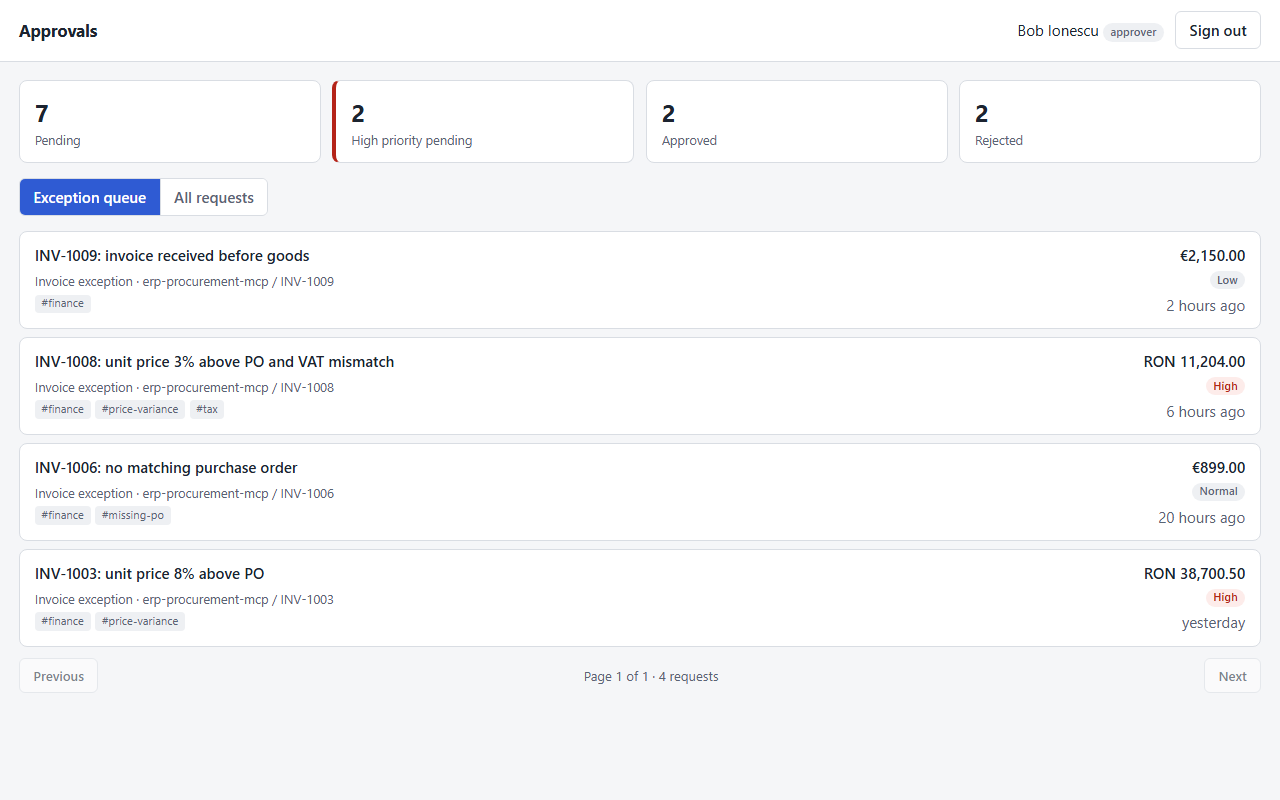
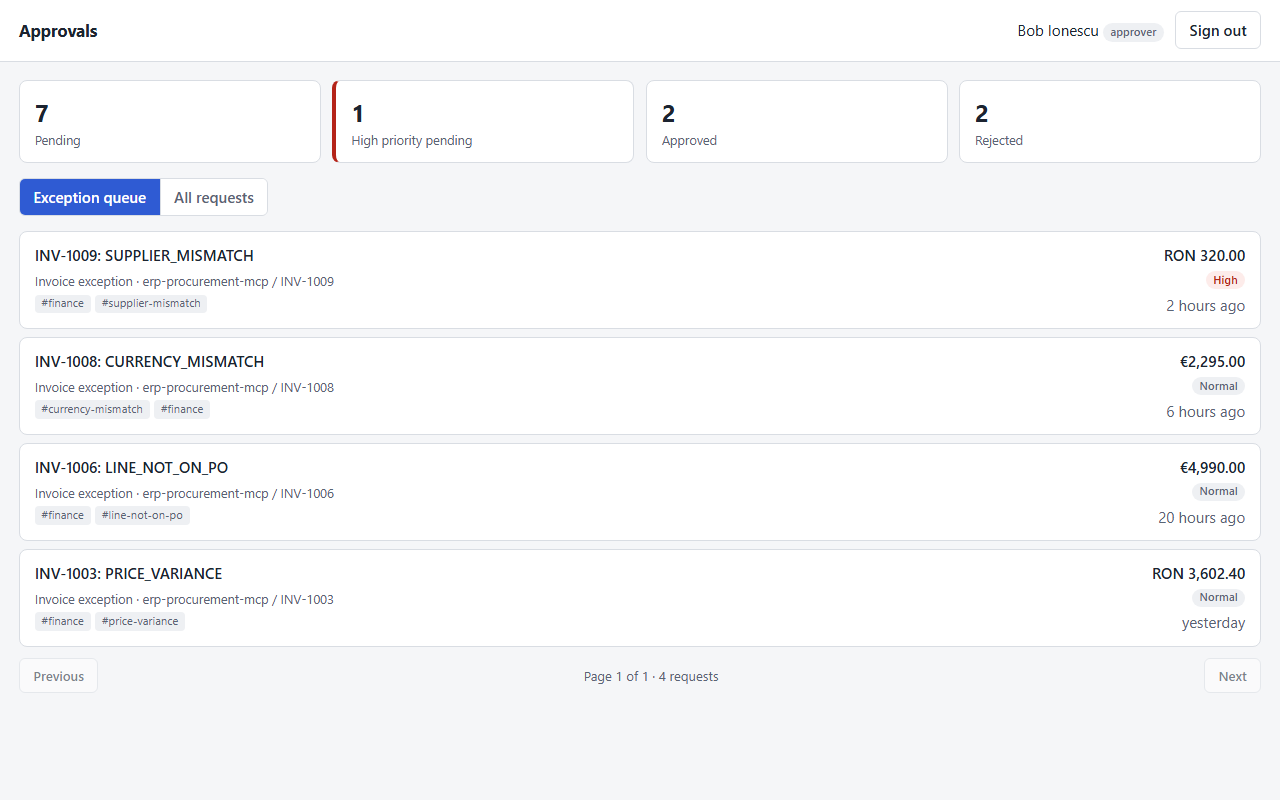
chore: align demo data with the ERP Procurement MCP server
Seeded invoice exceptions now use the MCP server's real invoices, suppliers,
totals, exception codes and priority rule, so a request it files looks the
same as the demo data. Tests and screenshots updated.

diff --git a/apps/api/src/db/seed.ts b/apps/api/src/db/seed.ts
@@ -41,39 +41,41 @@ const invoice = (ref: string, title: string, supplier: string, exceptionCodes: s
   metadata: { exceptionCodes, supplier },
 });
 
+// The invoice exceptions match the ERP Procurement MCP server's sample data (same invoices, suppliers, totals
+// and exception codes), so a request it files looks exactly like these.
 const SEED_REQUESTS: SeedRequest[] = [
   {
     by: 'agent',
     hoursAgo: 120,
-    body: { ...invoice('INV-1002', 'quantity billed exceeds goods received', 'Dacia Parts SRL', ['QTY_OVER_RECEIPT'], 1_245_000, 'RON'), tags: ['finance', 'quantity-variance'] },
-    outcome: { by: 'bob', decision: 'approved', comment: 'Remaining 20 units arrived this morning, receipt updated.' },
+    body: { ...invoice('INV-1002', 'DUPLICATE_INVOICE, QUANTITY_EXCEEDS_PO', 'Carpathian Office Supplies SRL', ['DUPLICATE_INVOICE', 'QUANTITY_EXCEEDS_PO'], 966_000, 'RON'), priority: 'high', tags: ['finance', 'duplicate-invoice', 'quantity-exceeds-po'] },
+    outcome: { by: 'carol', decision: 'rejected', comment: 'Same supplier invoice number as INV-1001, which is already paid.' },
   },
   {
     by: 'agent',
     hoursAgo: 30,
-    body: { ...invoice('INV-1003', 'unit price 8% above PO', 'Carpathian Steel SA', ['PRICE_ABOVE_PO'], 3_870_050, 'RON'), priority: 'high', tags: ['finance', 'price-variance'] },
-    comments: [{ by: 'bob', body: 'Asked purchasing whether the steel surcharge was agreed.' }],
+    body: { ...invoice('INV-1003', 'PRICE_VARIANCE', 'Somes Industrial Components SRL', ['PRICE_VARIANCE'], 360_240, 'RON'), tags: ['finance', 'price-variance'] },
+    comments: [{ by: 'bob', body: 'Asked purchasing whether the 8% increase on the bolts was agreed.' }],
   },
   {
     by: 'agent',
     hoursAgo: 96,
-    body: { ...invoice('INV-1005', 'possible duplicate of INV-0998', 'Transilvania Logistics SRL', ['DUPLICATE_SUSPECTED'], 560_000, 'RON'), priority: 'high', tags: ['finance', 'duplicate'] },
-    outcome: { by: 'carol', decision: 'rejected', comment: 'Same delivery note as INV-0998, which is already paid.' },
+    body: { ...invoice('INV-1005', 'QUANTITY_NOT_RECEIVED', 'Somes Industrial Components SRL', ['QUANTITY_NOT_RECEIVED'], 277_500, 'RON'), tags: ['finance', 'quantity-not-received'] },
+    outcome: { by: 'bob', decision: 'approved', comment: 'The remaining 30 bearings arrived this morning; receipt updated.' },
   },
   {
     by: 'agent',
     hoursAgo: 20,
-    body: { ...invoice('INV-1006', 'no matching purchase order', 'Euro Office Supplies GmbH', ['PO_NOT_FOUND'], 89_900, 'EUR'), tags: ['finance', 'missing-po'] },
+    body: { ...invoice('INV-1006', 'LINE_NOT_ON_PO', 'Brandt Elektrotechnik GmbH', ['LINE_NOT_ON_PO'], 499_000, 'EUR'), tags: ['finance', 'line-not-on-po'] },
   },
   {
     by: 'agent',
     hoursAgo: 6,
-    body: { ...invoice('INV-1008', 'unit price 3% above PO and VAT mismatch', 'Carpathian Steel SA', ['PRICE_ABOVE_PO', 'VAT_MISMATCH'], 1_120_400, 'RON'), priority: 'high', tags: ['finance', 'price-variance', 'tax'] },
+    body: { ...invoice('INV-1008', 'CURRENCY_MISMATCH', 'Napoca Freight SRL', ['CURRENCY_MISMATCH'], 229_500, 'EUR'), tags: ['finance', 'currency-mismatch'] },
   },
   {
     by: 'agent',
     hoursAgo: 2,
-    body: { ...invoice('INV-1009', 'invoice received before goods', 'Banat Agro Coop', ['NO_GOODS_RECEIPT'], 215_000, 'EUR'), priority: 'low', tags: ['finance'] },
+    body: { ...invoice('INV-1009', 'SUPPLIER_MISMATCH', 'Carpathian Office Supplies SRL', ['SUPPLIER_MISMATCH'], 32_000, 'RON'), priority: 'high', tags: ['finance', 'supplier-mismatch'] },
   },
   {
     by: 'alice',

diff --git a/apps/api/tests/requests.test.ts b/apps/api/tests/requests.test.ts
@@ -29,7 +29,7 @@ describe('listing requests', () => {
     expect(pending.total).toBe(7);
 
     const priceVariance = (await t.as('bob', 'GET', '/v1/requests?tag=price-variance')).json();
-    expect(priceVariance.items.map((r: any) => r.externalRef).sort()).toEqual(['INV-1003', 'INV-1008']);
+    expect(priceVariance.items.map((r: any) => r.externalRef).sort()).toEqual(['INV-1003']);
     expect(priceVariance.items[0].tags).toContain('finance');
 
     const byRef = (await t.as('bob', 'GET', '/v1/requests?q=inv-1005')).json();
@@ -99,9 +99,9 @@ describe('reading and commenting', () => {
   it('returns the detail with decisions, comments and user names', async () => {
     const list = (await t.as('bob', 'GET', '/v1/requests?q=INV-1005')).json();
     const detail = (await t.as('bob', 'GET', `/v1/requests/${list.items[0].id}`)).json();
-    expect(detail.metadata).toMatchObject({ supplier: 'Transilvania Logistics SRL' });
+    expect(detail.metadata).toMatchObject({ supplier: 'Somes Industrial Components SRL', exceptionCodes: ['QUANTITY_NOT_RECEIVED'] });
     expect(detail.decisions).toEqual([
-      expect.objectContaining({ decision: 'rejected', approver: { id: t.users.carol.sub, name: 'Carol Dumitru' } }),
+      expect.objectContaining({ decision: 'approved', approver: { id: t.users.bob.sub, name: 'Bob Ionescu' } }),
     ]);
   });
 

diff --git a/apps/api/tests/reports.test.ts b/apps/api/tests/reports.test.ts
@@ -12,7 +12,7 @@ describe('tags and stats', () => {
   it('lists tags with how many requests use each', async () => {
     const tags = (await t.as('bob', 'GET', '/v1/tags')).json();
     expect(tags.find((tag: any) => tag.name === 'finance').requestCount).toBe(6);
-    expect(tags.find((tag: any) => tag.name === 'duplicate').requestCount).toBe(1);
+    expect(tags.find((tag: any) => tag.name === 'duplicate-invoice').requestCount).toBe(1);
   });
 
   it('counts only the requests the caller can see', async () => {
@@ -26,7 +26,7 @@ describe('tags and stats', () => {
     expect(stats).toEqual({
       byStatus: { pending: 7, approved: 2, rejected: 2, cancelled: 1 },
       pendingByType: { invoice_exception: 4, purchase: 1, access: 1, other: 1 },
-      pendingHighPriority: 2,
+      pendingHighPriority: 1,
     });
     const agentStats = (await t.as('erp-agent', 'GET', '/v1/stats')).json();
     expect(agentStats.pendingByType).toEqual({ invoice_exception: 4, purchase: 0, access: 0, other: 0 });

diff --git a/e2e/support/data.ts b/e2e/support/data.ts
@@ -10,13 +10,13 @@ export const ERP_SOURCE = 'erp-procurement-mcp';
 // What the ERP Procurement MCP server submits when an invoice fails three-way matching.
 export function invoiceException(id: string, overrides: Partial<CreateRequestBody> = {}): CreateRequestBody {
   return {
-    title: `INV-E2E-${id}: unit price 5% above PO`,
+    title: `INV-E2E-${id}: PRICE_VARIANCE`,
     type: 'invoice_exception',
     source: ERP_SOURCE,
     externalRef: `INV-E2E-${id}`,
     priority: 'high',
     amount: { amountMinor: 1_234_500, currency: 'RON' },
-    metadata: { exceptionCodes: ['PRICE_ABOVE_PO'], supplier: 'Carpathian Steel SA' },
+    metadata: { exceptionCodes: ['PRICE_VARIANCE'], supplier: 'Somes Industrial Components SRL' },
     tags: ['finance', 'price-variance'],
     ...overrides,
   };

diff --git a/e2e/screenshots/readme.screenshots.ts b/e2e/screenshots/readme.screenshots.ts
@@ -33,7 +33,7 @@ test('exception queue', async ({ page, signInAs }) => {
 
 test('request detail', async ({ page, signInAs }) => {
   const dashboard = await signInAs('bob');
-  await dashboard.open('INV-1003: unit price 8% above PO');
+  await dashboard.open('INV-1003: PRICE_VARIANCE');
   await expect(dashboard.panel.entry('Asked purchasing')).toBeVisible();
   await expect(dashboard.statValue('Pending')).toHaveText(/^\d+$/);
   await capture(page, 'request-detail');

diff --git a/e2e/tests/exception-queue.spec.ts b/e2e/tests/exception-queue.spec.ts
@@ -28,7 +28,7 @@ test.describe('Exception queue', () => {
 
     await dashboard.open(invoice.title);
     await expect(dashboard.panel.status).toHaveText('Pending');
-    await expect(dashboard.panel.root).toContainText('PRICE_ABOVE_PO');
+    await expect(dashboard.panel.root).toContainText('PRICE_VARIANCE');
     await dashboard.panel.approve('Price increase agreed with purchasing.');
 
     await expect(dashboard.panel.status).toHaveText('Approved');
